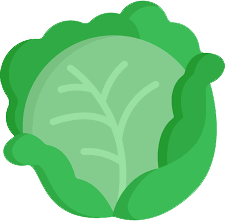
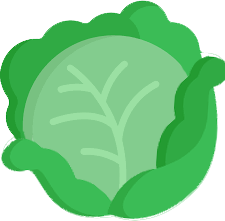
Cabbage Animation

diff --git a/GObject/Cabbage.py b/GObject/Cabbage.py
@@ -19,6 +19,14 @@ class Cabbage(BaseGObject):
                 'duration': 200
             },
             {
+                'path': 'media/cabbage/cabbage_3.png',
+                'duration': 200
+            },
+            {
+                'path': 'media/cabbage/cabbage_2.png',
+                'duration': 200
+            },
+            {
                 'path': 'media/cabbage/cabbage_1.png',
                 'duration': 200
             },
